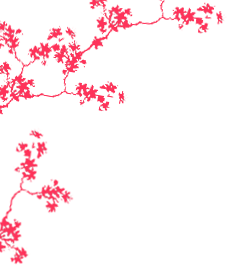
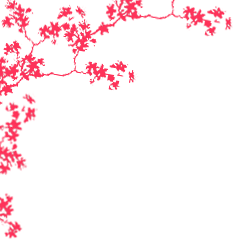
Stripy layout on Admin page (Not stable for all browsers)

Changed region(s): [[0.0, 0.0, 1.0, 1.0]]

diff --git a/template/yoga/theme/admin/theme.css b/template/yoga/theme/admin/theme.css
@@ -66,10 +66,10 @@ BODY {
   margin: 0px;
   padding: 0px;
 }
-H3, #imageToolBar A:hover, .row1, .tabsheet li  {
+H3, #imageToolBar A:hover, .row1 {
   background-color: #222;
 }
-#theAdminPage h2, #theAdminPage h3 { border-bottom: 1px solid #69c; }
+#theAdminPage h2, #theAdminPage h3 { color: #777; }
 #imageHeaderBar, #theAdminPage #the_page {
   background-color: transparent;
 }
@@ -88,13 +88,13 @@ A:hover {
   border: 1px solid #eee;
   padding: 5px;
 }
-#theAdminPage #the_page .content {
-  background-color: transparent;
-  border-width: 0px;
-  padding: 5px;
-}
-H2, #menubar DT, .throw, TD H3, #theAdminPage H3 {
-  background-image: url(images/tableh1_bg.png);
+
+
+
+
+
+H2, .throw, TD H3, #theAdminPage H3 {
+  background-image: url(images/fillet.png);
   background-repeat: repeat-x;
 }
 .content H2 {
@@ -187,7 +187,7 @@ H2, #imageToolBar {
 FIELDSET, INPUT, SELECT, TEXTAREA,
 .content DIV.comment  A.illustration IMG,
 .content DIV.thumbnailCategory {
-  border: 1px solid gray;
+  border: 1px solid #333;
 }
 .content DIV.thumbnailCategory {
   border: 1px solid #69c;
@@ -241,7 +241,9 @@ A.navThumb, A.navThumb:hover {
   margin: 2px;
 }
 #copyright {
-  color: #69c;
+color:#777;
+margin:60px 0px;
+text-align:center;
 }
 
 label {
@@ -280,18 +282,14 @@ FORM#quickconnect INPUT[type=password] {
 
 .virtual_cat { background: #222 !important; }
 
-.PWG {
+.Piwigo {
   font-family: verdana, arial, helvetica, sans-serif !important;
   font-size: 0.9em;
   font-weight: normal;
   letter-spacing: 0px;
 }
-a.PWG { border: 0px; }
-a.PWG .P { color : #f92; }
-a.PWG .W { color : #aaa; }
-a.PWG .G { color : #69c; }
-a.PWG:hover .P { color : #69c; }
-a.PWG:hover .G { color : #f92; }
+a.Piwigo { border: 0px; color : #f36; text-decoration: none; border: 0px; color: #f36; }
+
 
 
 
@@ -307,39 +305,42 @@ a.PWG:hover .G { color : #f92; }
 #menubar .menuInfoCatByChild,
 h2.showtitle, #theImage p.showlegend { display: none }
 * { outline-width: 0px; }
-ul.tabsheet, ul.tabsheet li {
-  border-color: #69c;
-}
-ul.tabsheet li.normal_tab {
-  background-image: url(images/tableh1_bg.png);
-  background-repeat: repeat-x;
-}
+
+
+
+
+
+
+
+
 ul.tabsheet li.normal_tab:hover { border-color: #f92 }
-ul.tabsheet li {
-  -moz-border-radius: 0px 0px 3px 3px;
-  border-radius:  0px 0px 12px 12px;
-  -webkit-border-radius: 0px 0px 3px 3px;
-}
+
+
+
+
+
 /* New in 1.8 : Special Admin */
 body#theAdminPage #menubar { 
   background: transparent url(images/menubar-bg.png) 
   repeat-y scroll right top;
   border-bottom: #ccc ridge 2px; width:13.5em; padding: 0; margin: 0;
 }
-body#theAdminPage .content { /*default-layout.cs... (line 1)*/
-list-style-type:none; padding: 0px;
- /*default-layout.cs... (line 23) */
-margin: 0px 0px 0px 200px; background-color: transparent;}
 
-#theAdminPage #menubar ul { list-style-image:url(images/list-image.png); }
-#theAdminPage #menubar ul:hover { list-style-image:url(images/list-hover.png); }
+
+
+
+
+#theAdminPage #menubar ul { color: #333; margin:9px 0pt 3px 9px; }
+#theAdminPage #menubar ul:hover { color: #850; }
+#theAdminPage #menubar li:hover { color: #F36; }
+#theAdminPage #menubar li { margin: 0px 0px 0px 6px; }
 a, input.rateButton, legend { color:#777; }
-#menubar a { border-bottom:0; text-decoration:none; font-style: italic;}
+#menubar a { border-bottom:0; text-decoration:none; font-size: 11px; }
 body#theAdminPage #theHeader { 
-  background:transparent url(images/piwigo_logo_sombre_214x100.png) no-repeat 230px top; height:105px; 
+  background:transparent url(images/piwigo_logo_sombre_214x100.png) no-repeat scroll 245px top; height:105px; 
 }
 body#theAdminPage #post-header { 
-  background-color: transparent;
+  background-color: transparent; display:none;
   width: 60%; height: 4px; margin-left:40%;
 }
 #theHeader h1 { /*default-layout.cs... (line 204) */
@@ -349,26 +350,26 @@ body#theAdminPage #post-header {
 border:0; display:block; margin:0px; padding-bottom:0px;
 padding-top:0px; text-align:center; min-height: 100%; position:relative;
 }
-.pwgmenu { /* default-layout.cs... (line 136) */
-background:transparent none repeat scroll 0%;
-display:table; font-family:verdana,arial,helvetica,sans-serif;
-font-size: 8px; line-height:1.1em; list-style-image:none;
-list-style-type:none; margin:1px 8px 1px auto;
-padding:3px; position:relative;
-text-decoration:none; top:-100px;
-white-space:nowrap; width:66em;
-}
-.pwgmenu a { /* default-layout.cs... (line 159) */
-background:#f36 none repeat scroll 0%;
-border:1px solid #FFFFFF;
-color:white;
-display:block;
-font-weight:bold;
-padding:4px 8px;
-text-align:center;
-text-decoration:none;
-width:9em !important;
-}
+
+
+
+
+
+
+
+
+
+
+
+
+
+
+
+
+
+
+
+
 
 
 
@@ -380,41 +381,10 @@ width:9em !important;
 background:transparent none no-repeat scroll left top;
 height: 22px; overflow: hidden; margin: 0px;
 }
-.pwgmenu { /*theme.css (line 335)*/
-background:transparent url(images/header_bottom.png) repeat-x scroll left 25px;
-float:right;
-font-family:verdana,arial,helvetica,sans-serif;
-font-size:8px;
-line-height:1.1em;
-list-style-image:none;
-list-style-type:none;
-margin:1px 8px 1px 0px;
-padding:3px 3px 3px 101px;
-text-decoration:none; top:-35px;
-width:587px;
-}
-.pwgmenu li { /*default-layout.cs... (line 151)*/
-float:left;
-margin:0px;
-padding:0px;
-text-align:center;
-width:126px !important;
-}
-.pwgmenu a { /*theme.css (line 344)*/
-background:transparent url(images/onglet_inactif_transp.png) no-repeat scroll left 3px;
-border:0px none;
-color:#FF3333;
-display:block;
-font-size:8px; height:33px;
-padding:3px 0px 5px 13px; text-align:left;
-text-decoration:none; width:126px !important;
-}
-.pwgmenu a:hover { /*theme.css (line 344)*/
-background:transparent url(images/onglet_actif_transp.png) no-repeat scroll left 2px;
-color: #ff7700; }
+.pwgmenu { display:none; }
 .content h2:before, .content h2:after, 
 #menubar DT:before, #menubar DT:after { content: ""; }
-#theHeader h1 { /*theme.css (line 345) */ color:#441100; }
+#theHeader h1 { /*theme.css (line 345) */ color:#441100; display:none;}
 .content h2 { /*theme.css (line 100)*/
 letter-spacing:0.1em; margin-right:45px; text-align:right; color: #777777; 
 text-transform:none; }
@@ -423,46 +393,73 @@ text-transform:none; }
 font-weight:bold; margin-right:30px; padding-left:2em; }
 #theAdminPage h3 { /* theme.css (line 96) */
 background: transparent none; margin-right:30px; font-weight: lighter;}
-#theAdminPage h2 { /* theme.css (line 72) */ border-bottom:0px; }
+#theAdminPage h2 { /* theme.css (line 72) */ border-bottom:0px none;
+color:#333; display:block; font-size:36px; margin:0px; overflow:hidden;
+position:relative; right:0px; text-align:right; top:-50px; 
+width:920px !important; }
 body#theAdminPage { /*theme.css (line 324) */
 background:#111111 url(images/top-left-bg.png) no-repeat scroll left top;}
 #theAdminPage #the_page { /*theme.css (line 73)*/
 background:transparent url(images/bottom-left-bg.png) no-repeat fixed left bottom; }
 #the_page { /*theme.css (line 348)*/ padding-bottom:0px;}
-.content {background-color:transparent;}
+
 body#theAdminPage #menubar {  /* theme.css (line 324) */
-background:transparent none repeat-y scroll right top; border-bottom:0px; margin-top:110px;
-float: none; position: absolute; left: 0px; top: 160px;}
-#theAdminPage #the_page .content { /*theme.css (line 91)*/
-background-color:transparent; border-width:0px; padding:5px 35px 5px 5px; }
-body#theAdminPage #menubar dl.selected dd { padding-bottom: 145px; }
+background:transparent url(images/admin_v2_menuBox-bottom.png) no-repeat scroll left bottom;
+border-bottom:0px none; float:none; left:0px; margin:100px 35px; min-height:423px;
+position:absolute; top:0px; width:207px; }
+#theAdminPage #the_page .content { 
+ background: #222 url(images/fillet.png) repeat-x top left; min-height: 424px;
+ border-width:0px; padding: 0px 5px 0px 0px; list-style-type:none; margin: 0px 10px 0px 248px; }
+
+body#theAdminPage #menubar dl.selected dd { padding-bottom: 110px; }
+
 .header_notes {/*default-colors.cs... (line 91)*/
 background-image:url(icon/note.png); background-position:left top;
 background-repeat:no-repeat; border:1px solid #AAAAAA; font-weight:bold;
 margin:14px; padding:5px 0px 0px; position:absolute; right:31px;
 text-align:center; top:96px; width:502px; }
 #theAdminPage #menubar dl {/*theme.css (line 372)*/
-background:transparent url(images/menubar-top.png) no-repeat scroll left top; width: 198px;
+background:transparent url(images/menubar-top.png) no-repeat scroll left top; width: 207px;
 border:0;     box-shadow: none;
 }
 #theAdminPage #menubar dl.selected {/*theme.css (line 372)*/
 background:transparent url(images/menubar-top.png) no-repeat scroll left top;
 }
-#theAdminPage #menubar dt { background: none; left:10px; position:relative; text-align:left; top:-10px;}
+#theAdminPage #menubar dt { background: none; left:10px; position:relative; text-align:left; top:-15px; font-size: 14px;}
 #theAdminPage #menubar dd { background: transparent url(images/menubar-detail.png) repeat-y top left; 
-margin: 0px 0px 0px 4px; padding: 0px;}
-span.bg { background-color: #111111; padding-right: 3px; }
+margin: 0px; padding: 0px;}
+span.bg { background-color: #222; padding-left: 3px; }
 html, body {
 height:100%;
 }
 ul.tabsheet li.normal_tab, ul.tabsheet li.selected_tab { 
-background: transparent none repeat-x top left; 
-border:0; }
-ul.tabsheet { border:0; 
-background: transparent url(images/internal_onglet.png) repeat-x bottom left; }
-ul.tabsheet a { border:0; font-size: 12px; 
+border: 0; padding:0px; }
+ul.tabsheet a { 
+background: transparent url(images/inactive_tab.png) no-repeat scroll left top; 
+width:145px !important;}
+ul.tabsheet a { border:0; font-size: 8px; 
 font-family: verdana,arial,helvetica,sans-serif; line-height: 14px;  }
-ul.tabsheet li.selected_tab > a {  color: #ff3333; }
-ul.tabsheet, ul.tabsheet li { border-bottom: #eee solid 1px; }
-ul.tabsheet li.selected_tab {
-font-weight:bold; padding-top:0px; position:relative; top:0px; }
+
+ul.tabsheet { 
+background-color:transparent; border:0pt none; display:table;
+float:right; font-family:verdana,arial,helvetica,sans-serif;
+font-size:8px; line-height:1.1em; list-style-image:none;
+margin: 0px; padding:0px;
+position:relative; text-decoration:none;
+top:-2px; white-space:nowrap; width:730px; }
+ul.tabsheet li {
+float:right; margin:0px; padding:0px; text-align:right; overflow: hidden;
+width:136px !important; }
+ul.tabsheet a { 
+background:transparent url(images/inactive_tab.png) no-repeat scroll left 4px;
+border:0px none; color:#777777; display:block; font-size:8px; text-transform:capitalize;
+font-weight:bold; height:33px; overflow:hidden; padding:18px 30px 5px 0px;
+text-align:right; text-decoration:none; width:122px !important; }
+ul.tabsheet a:hover, .tabsheet li.selected_tab  a { 
+background:transparent url(images/active_tab.png) no-repeat scroll left 0px;
+color: #F36; }
+#menubar a { color: #555; border-bottom: 1px dotted #777;}
+#menubar .selected a { color: #850; border-bottom: 1px dotted #a72;}
+#menubar .selected a:hover { color: #f36; border-bottom: 1px solid #f36;}
+fieldset#uploadConf input { margin-left:5%; width:160px; }
+table.table2 th { padding:3px 0.8em; }

diff --git a/template/yoga/theme/admin/themeconf.inc.php b/template/yoga/theme/admin/themeconf.inc.php
@@ -24,6 +24,7 @@ function selected_admin_menu()
         }
         return 2;
       case 'comments':
+      case 'upload':
       case 'thumbnail':
       case 'rating':
       case 'tags':
@@ -63,7 +64,7 @@ $themeconf = array(
   jQuery().ready(function(){
     jQuery(\'#menubar\').accordion({
       header: "dt.rdion",
-      event: "mouseover",
+      event: "click",
       active: '. selected_admin_menu() . '
     });
   });
